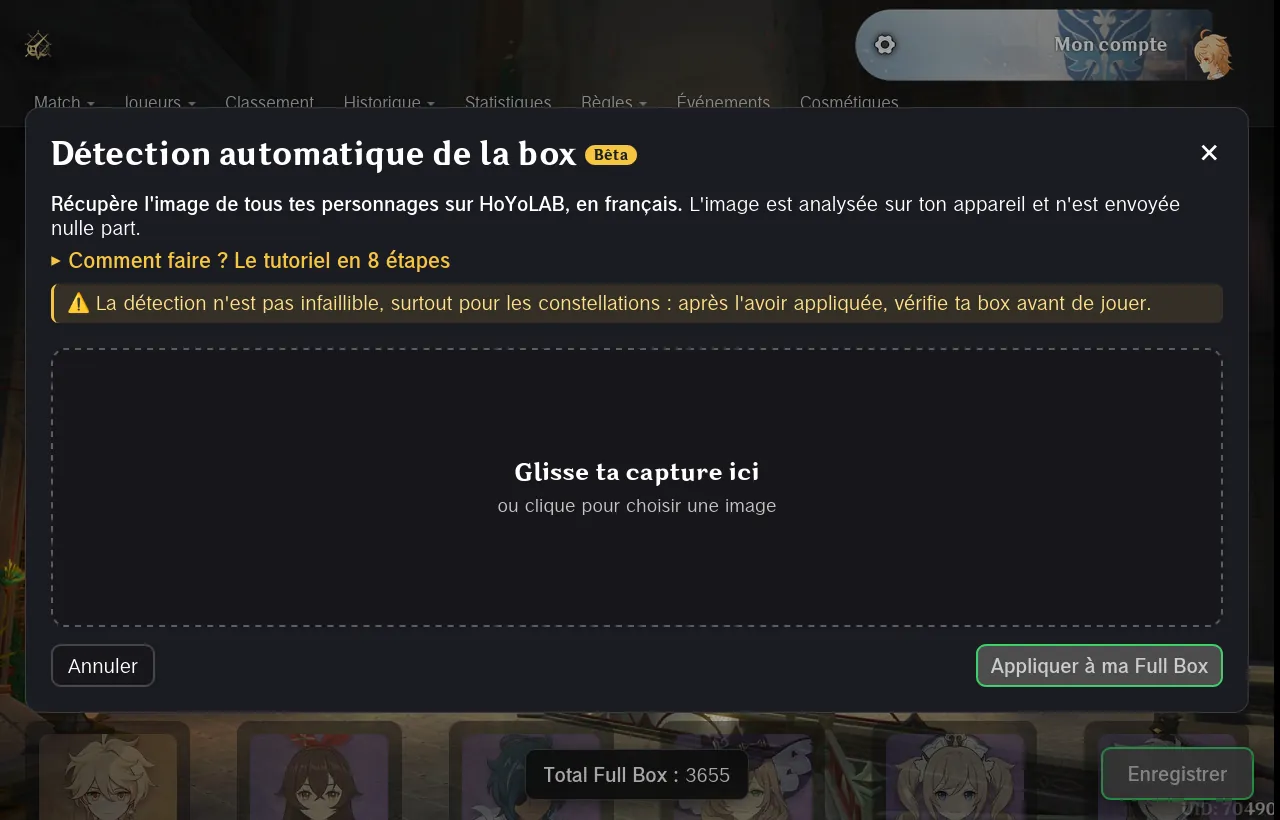
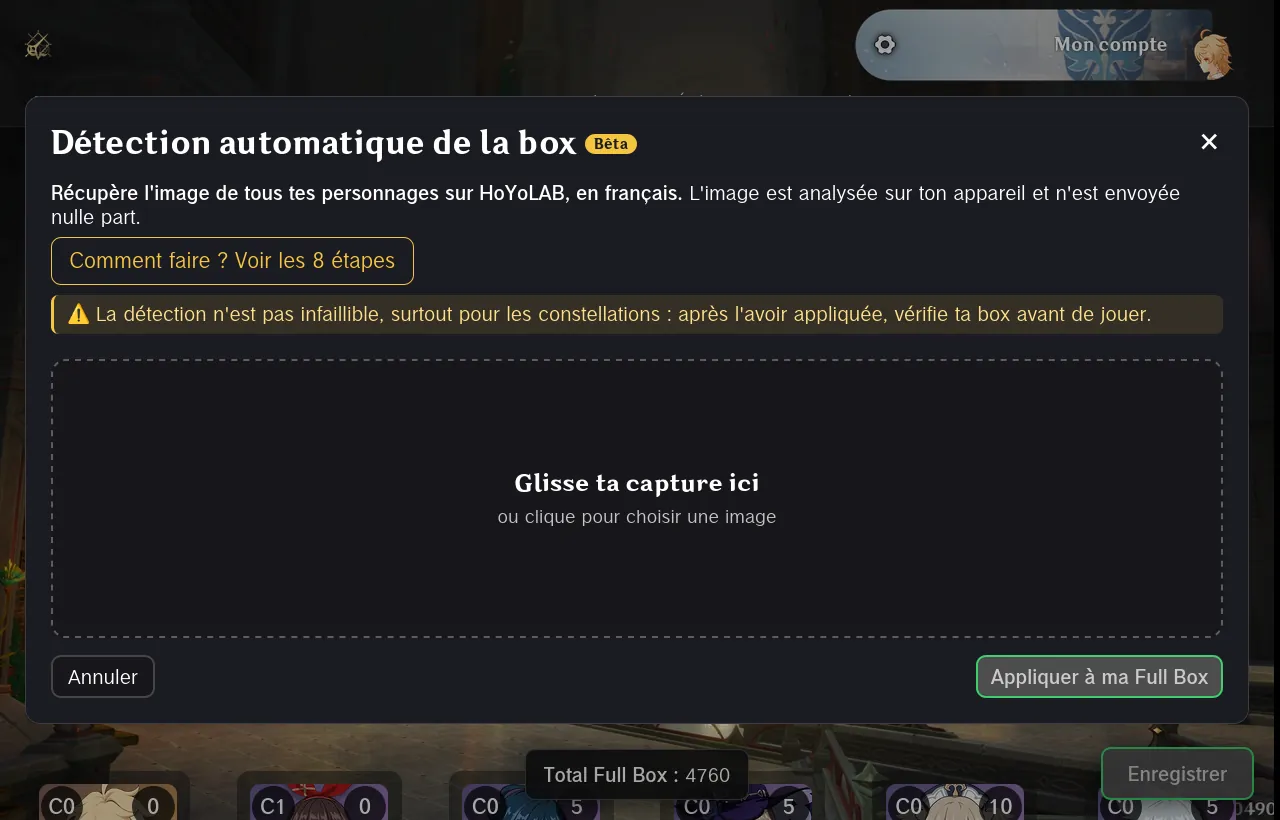
Page Tutoriel : captures refaites avec le nouveau cadre doré et les écrans à jour

diff --git a/site/tutorial.html b/site/tutorial.html
@@ -57,7 +57,7 @@
           <li>Renseigne ton UID et ton niveau du monde, puis clique sur Enregistrer.</li>
           <li>Attention : ton UID ne pourra plus être modifié.</li>
         </ul>
-        <button type="button" class="capture-hoyolab capture-tuto" data-capture="/DB/images/tuto/infos.webp" aria-label="Agrandir : UID et niveau du monde dans le menu du compte"><img src="/DB/images/tuto/infos.webp" alt="UID et niveau du monde dans le menu du compte" loading="lazy" width="1280" height="820"></button>
+        <button type="button" class="capture-hoyolab capture-tuto" data-capture="/DB/images/tuto/infos.webp?v=2" aria-label="Agrandir : UID et niveau du monde dans le menu du compte"><img src="/DB/images/tuto/infos.webp?v=2" alt="UID et niveau du monde dans le menu du compte" loading="lazy" width="1280" height="820"></button>
       </div>
     </details>
     <details class="section-regles" id="ta-box" open>
@@ -68,8 +68,8 @@
           <li>On te conseille la <strong>Détection auto</strong> : elle lit une image de ta liste HoYoLAB et te fait gagner beaucoup de temps (voir <a href="#hoyolab">Récupérer ta box sur HoYoLAB</a>). Tu peux aussi tout remplir à la main.</li>
           <li>Vérifie les constellations proposées, puis clique sur Enregistrer.</li>
         </ul>
-        <button type="button" class="capture-hoyolab capture-tuto" data-capture="/DB/images/tuto/detection.webp" aria-label="Agrandir : Bouton Détection auto de Mon compte"><img src="/DB/images/tuto/detection.webp" alt="Bouton Détection auto de Mon compte" loading="lazy" width="1280" height="820"></button>
-        <button type="button" class="capture-hoyolab capture-tuto" data-capture="/DB/images/tuto/detection_fenetre.webp" aria-label="Agrandir : Fenêtre de la Détection auto"><img src="/DB/images/tuto/detection_fenetre.webp" alt="Fenêtre de la Détection auto" loading="lazy" width="1280" height="820"></button>
+        <button type="button" class="capture-hoyolab capture-tuto" data-capture="/DB/images/tuto/detection.webp?v=2" aria-label="Agrandir : Bouton Détection auto de Mon compte"><img src="/DB/images/tuto/detection.webp?v=2" alt="Bouton Détection auto de Mon compte" loading="lazy" width="1280" height="820"></button>
+        <button type="button" class="capture-hoyolab capture-tuto" data-capture="/DB/images/tuto/detection_fenetre.webp?v=2" aria-label="Agrandir : Fenêtre de la Détection auto"><img src="/DB/images/tuto/detection_fenetre.webp?v=2" alt="Fenêtre de la Détection auto" loading="lazy" width="1280" height="820"></button>
       </div>
     </details>
     <details class="section-regles" id="hoyolab" open>
@@ -87,7 +87,7 @@
           <li>La Détection auto ne renseigne pas les armes : passe sur la vue Armes, avec le bouton encadré.</li>
           <li>Renseigne au moins un exemplaire de chaque arme que tu possèdes, et leurs doublons, puis clique sur Enregistrer. Si tu n'en as pas encore, passe simplement à la suite.</li>
         </ul>
-        <button type="button" class="capture-hoyolab capture-tuto" data-capture="/DB/images/tuto/armes.webp" aria-label="Agrandir : Vue Armes de Mon compte"><img src="/DB/images/tuto/armes.webp" alt="Vue Armes de Mon compte" loading="lazy" width="1280" height="820"></button>
+        <button type="button" class="capture-hoyolab capture-tuto" data-capture="/DB/images/tuto/armes.webp?v=2" aria-label="Agrandir : Vue Armes de Mon compte"><img src="/DB/images/tuto/armes.webp?v=2" alt="Vue Armes de Mon compte" loading="lazy" width="1280" height="820"></button>
       </div>
     </details>
     <details class="section-regles" id="tes-persos-montes" open>
@@ -98,7 +98,7 @@
           <li>Il en faut 3 pour jouer en Sardine, 8 en Carpe, 12 en Dauphin et 16 en Baleine.</li>
           <li>Clique ensuite sur Enregistrer.</li>
         </ul>
-        <button type="button" class="capture-hoyolab capture-tuto" data-capture="/DB/images/tuto/stuff.webp" aria-label="Agrandir : Box stuff de Mon compte"><img src="/DB/images/tuto/stuff.webp" alt="Box stuff de Mon compte" loading="lazy" width="1280" height="820"></button>
+        <button type="button" class="capture-hoyolab capture-tuto" data-capture="/DB/images/tuto/stuff.webp?v=2" aria-label="Agrandir : Box stuff de Mon compte"><img src="/DB/images/tuto/stuff.webp?v=2" alt="Box stuff de Mon compte" loading="lazy" width="1280" height="820"></button>
       </div>
     </details>
     <details class="section-regles" id="les-regles" open>
@@ -117,8 +117,8 @@
           <li>Le menu de ton compte contient la Personnalisation : fond d'écran, namecard, bannière, skins.</li>
           <li>Tu gagnes des Rikoyns en jouant pour les débloquer.</li>
         </ul>
-        <button type="button" class="capture-hoyolab capture-tuto" data-capture="/DB/images/tuto/menu_compte.webp" aria-label="Agrandir : Personnalisation dans le menu du compte"><img src="/DB/images/tuto/menu_compte.webp" alt="Personnalisation dans le menu du compte" loading="lazy" width="1280" height="820"></button>
-        <button type="button" class="capture-hoyolab capture-tuto" data-capture="/DB/images/tuto/personnalisation.webp" aria-label="Agrandir : Fenêtre de personnalisation"><img src="/DB/images/tuto/personnalisation.webp" alt="Fenêtre de personnalisation" loading="lazy" width="1280" height="820"></button>
+        <button type="button" class="capture-hoyolab capture-tuto" data-capture="/DB/images/tuto/menu_compte.webp?v=2" aria-label="Agrandir : Personnalisation dans le menu du compte"><img src="/DB/images/tuto/menu_compte.webp?v=2" alt="Personnalisation dans le menu du compte" loading="lazy" width="1280" height="820"></button>
+        <button type="button" class="capture-hoyolab capture-tuto" data-capture="/DB/images/tuto/personnalisation.webp?v=2" aria-label="Agrandir : Fenêtre de personnalisation"><img src="/DB/images/tuto/personnalisation.webp?v=2" alt="Fenêtre de personnalisation" loading="lazy" width="1280" height="820"></button>
       </div>
     </details>
     <details class="section-regles" id="boxes-des-joueurs" open>
@@ -127,7 +127,7 @@
         <ul>
           <li>Sur <a href="/comptes">la page Joueurs</a>, tu peux consulter les comptes et les boxes des autres joueurs, pour préparer tes matchs.</li>
         </ul>
-        <button type="button" class="capture-hoyolab capture-tuto" data-capture="/DB/images/tuto/joueurs.webp" aria-label="Agrandir : Liste des joueurs"><img src="/DB/images/tuto/joueurs.webp" alt="Liste des joueurs" loading="lazy" width="1280" height="820"></button>
+        <button type="button" class="capture-hoyolab capture-tuto" data-capture="/DB/images/tuto/joueurs.webp?v=2" aria-label="Agrandir : Liste des joueurs"><img src="/DB/images/tuto/joueurs.webp?v=2" alt="Liste des joueurs" loading="lazy" width="1280" height="820"></button>
       </div>
     </details>
     <details class="section-regles" id="lancer-un-match" open>
@@ -136,7 +136,7 @@
         <ul>
           <li>Sur <a href="/match">la page Match</a>, tu lances tes matchs : classé, amical, entraînement, en équipe ou tournois.</li>
         </ul>
-        <button type="button" class="capture-hoyolab capture-tuto" data-capture="/DB/images/tuto/match.webp" aria-label="Agrandir : Page de création de match"><img src="/DB/images/tuto/match.webp" alt="Page de création de match" loading="lazy" width="1280" height="820"></button>
+        <button type="button" class="capture-hoyolab capture-tuto" data-capture="/DB/images/tuto/match.webp?v=2" aria-label="Agrandir : Page de création de match"><img src="/DB/images/tuto/match.webp?v=2" alt="Page de création de match" loading="lazy" width="1280" height="820"></button>
       </div>
     </details>
     <details class="section-regles" id="premier-match" open>
